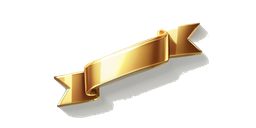
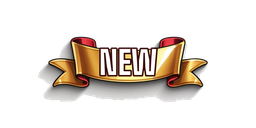
circle-heroes: 남은 UI 아이콘 백로그 8종 제작 (tab-castle 자동 반영, 나머지 7종은 코드 연결 대기)
tab-castle.png(모험 탭, 나침반 모티프)는 shell.ts가 파일명을 직접 참조해 즉시 반영됨.
ticket-normal/premium, icon-stone, star-transcend, icon-key, icon-photo, badge-new(NEW
텍스트를 이미지에 직접 합성) 7종은 코드가 이모지 리터럴을 쓰고 있어 이미지 배선은
별도 작업 필요 — ASSETS.md에 상태 기록.

Changed region(s): [[0.125, 0.1562, 0.8438, 0.9375]]

diff --git a/circle-heroes/ASSETS.md b/circle-heroes/ASSETS.md
@@ -112,6 +112,12 @@ assets/backgrounds/<장소/테마>.png           ← 슬롯9·10
   `mail-notice.png`/`mail-normal.png`(우편함 종류 아이콘), `shop-freebox.png`(일일 무료 상자),
   `shop-gems.png`(보석 패키지), `skill-attack.png`/`skill-defense.png`(영웅 상세 스킬 아이콘).
   화질·스타일 전부 기존 `elem-*.png`/`tab-*.png`와 잘 어울리는 플랫 SD 톤으로 확인 후 적용.
+- `tab-castle.png`(512×512) — **2026-07-30 정식본 교체 완료, 자동 반영됨**: `shell.ts`가
+  파일명을 직접 참조하고 있어(`icon: "tab-castle.png"`) PIL 임시 도형을 나침반 모티프 AI
+  일러스트로 덮어쓰기만 해도 즉시 반영. 추가 코드 작업 불필요.
+- `equip-{weapon,helmet,armor,shoes,necklace,ring}.png`(128×128, §장비 시스템 v2 6슬롯),
+  `shop-equipbox.png`(128×128) — **2026-07-30 제작·커밋 완료**(등급별 아이템 아이콘 5종은
+  장비탭 재구성으로 불필요해질 가능성이 있어 보류, 아래 표에 남겨둠).
 
 ### 재작업 필요 (파일은 있지만 모양이 용도에 안 맞음)
 - `chip-bg.png` — 지금 파일은 동그란 3D 렌즈/조약돌 모양인데, 실제 쓰이는 곳(하단 서브메뉴 칩)은
@@ -124,36 +130,37 @@ assets/backgrounds/<장소/테마>.png           ← 슬롯9·10
 ### 신규 필요 목록 — 지금 전부 이모지로 대체 중인 것들
 
 이번 라운드(2026-07-30)에 실제로 도착해 있던 9종(class-dealer/tanker/support, icon-lock,
-icon-power, mail-item/notice/normal, shop-freebox, shop-gems, skill-attack/defense)은 위
-"이미 반영 완료"로 옮겼다. 아래는 아직 파일이 없거나, 파일은 있어도 그대로 못 쓰는 것들.
+icon-power, mail-item/notice/normal, shop-freebox, shop-gems, skill-attack/defense)과
+tab-castle 정식본·장비 슬롯 7종은 위 "이미 반영 완료"로 옮겼다. 아래는 아직 파일이 없거나,
+파일은 도착했어도 코드가 이모지 리터럴이라 아직 안 바뀌는 것들.
 
 | 우선순위 | 파일명 | 크기 | 대체할 것 | 쓰이는 곳 |
 |---|---|---|---|---|
 | 중간 | `icon-check.png` | 128×128 | (현재 없음 — 미구현) | 원래 "편성중 카드 체크 배지"용으로 요청했지만, 지금 코드에는 그 자리에 체크 아이콘이 전혀 없다(편성/선택 표시는 카드 테두리 색만으로 함). 이 아이콘을 실제로 쓰려면 카드에 체크 배지를 추가하는 기능 작업이 먼저 필요 — 이미지만 넣는다고 반영되지 않음, 다음 라운드에 UI 작업과 같이 진행 권장 |
 | 높음 | `star-filled.png` | 64×64 | ★ | 영웅 상세·승급 화면 성급 표시 |
 | 높음 | `star-empty.png` | 64×64 | ☆ | 영웅 상세·승급 화면 성급 표시(빈 칸) — 성급/초월 통합 표시(§카드 표시방식 재정리)라 `star-filled`와 함께 별 5칸 전체를 이미지로 바꾸는 구조 변경이 필요, 텍스트(★☆) → 이미지 전환은 다음 라운드로 미룸 |
-| 중간 | `shop-equipbox.png` | 128×128 | 🎁 | 상점 — 장비 상자(§장비 시스템 v2 2026-07-29 신설). "일일 무료 상자"용 `shop-freebox.png`(보물상자 그림)와는 다른 아이템이라 그대로 재사용하지 않음 |
-| 중간 | `badge-new.png` | 256×128 | (텍스트 "NEW") | 소환 결과 신규 획득 배지 — **2026-07-30 확인 결과 이미지가 도착했지만 그대로 못 씀**: 받은 파일이 "NEW" 글자 없는 빈 금색 리본 그림이라, 지금 코드가 보여주는 실제 정보("NEW!" 텍스트)가 사라진다. 리본 위에 텍스트를 얹는 CSS 오버레이로 쓰거나, "NEW" 글자가 박힌 버전으로 재제작 필요 |
-| 낮음 | `icon-photo.png` | 128×128 | 🖼 | 영웅 카드 일러스트 열람 가능 힌트 배지 |
-| 낮음 | `icon-key.png` | 128×128 | 🔑 | 설정 화면 "코드 입력" 섹션 제목 |
-| 낮음 | `equip-weapon.png` | 128×128 | ⚔ | 장비 화면(§장비 시스템 v2 2026-07-29 신설, 6슬롯) — 무기 슬롯 아이콘(공격력) |
-| 낮음 | `equip-helmet.png` | 128×128 | 🪖 | 장비 화면 — 투구 슬롯 아이콘(체력) |
-| 낮음 | `equip-armor.png` | 128×128 | 🛡 | 장비 화면 — 갑옷 슬롯 아이콘(방어력) |
-| 낮음 | `equip-shoes.png` | 128×128 | 👟 | 장비 화면 — 신발 슬롯 아이콘(속도) |
-| 낮음 | `equip-necklace.png` | 128×128 | 📿 | 장비 화면 — 목걸이 슬롯 아이콘(치명타 확률) |
-| 낮음 | `equip-ring.png` | 128×128 | 💍 | 장비 화면 — 반지 슬롯 아이콘(치명타 피해) |
-| 낮음 | `equip-item-N/R/SR/SSR/UR.png` | 128×128 | (등급 텍스트만) | 인벤토리·장착 팝업의 장비 아이템 아이콘 5종(등급별 톤 차등, 슬롯 공통 사용 가능) — §2026-07-30 장비탭 재구성 후엔 카드에 슬롯 이모지(`equip-weapon.png` 등 위 6종과 동일 모티프)를 등급색 배경(`.hero-card` 공용 배경) 위에 얹는 방식으로 확정, 위 슬롯 아이콘 6종이 준비되면 그대로 대체되고 이 5종은 불필요해짐(취소 검토) |
-| 중간 | `tab-castle.png` | 512×512 (기존 `tab-*.png`와 동일 규격) | (PIL로 급조한 자리표시자 — 골드 링+네이비 배경+탑 실루엣) | 주성 탭 아이콘(§마이티 아레나 반영계획 B, 2026-07-29 신설). 지금 파일은 코드로 그린 임시 도형이라 `tab-hero.png`/`tab-battle.png`처럼 AI 일러스트 톤의 정식 배지로 교체 필요 |
-| 중간 | `ticket-normal.png` | 128×128 | 🎫 | 일반소환권 아이콘(§마이티 아레나 반영계획 4, 2026-07-30 신설) — 소환화면·상점 |
-| 중간 | `ticket-premium.png` | 128×128 | 🎟 | 고급소환권 아이콘 — 소환화면·상점 |
-| 중간 | `icon-stone.png` | 128×128 | 💠 | 강화석 아이콘(§장비 강화, 2026-07-30 재도입) — 상점·강화 모달 |
-| 낮음 | `star-transcend.png` | 64×64 | ✪(보라색) | 초월(§마이티 아레나 반영계획 5) 전용 별 아이콘 — 기존 금색 `star-filled.png`와 시각적으로 구분되는 보라색 계열로. 승급 화면 초월 단계 표시에 사용 |
+| 낮음 | `equip-item-N/R/SR/SSR/UR.png` | 128×128 | (등급 텍스트만) | 인벤토리·장착 팝업의 장비 아이템 아이콘 5종(등급별 톤 차등, 슬롯 공통 사용 가능) — §2026-07-30 장비탭 재구성 후엔 카드에 슬롯 이모지(`equip-weapon.png` 등 6종과 동일 모티프)를 등급색 배경 위에 얹는 방식으로 확정, 슬롯 아이콘 6종이 이미 반영됐으니 이 5종은 사실상 불필요(취소 검토 — 이미지팀에서 12종 다 만들었지만 이 5종만 커밋 보류함) |
+
+### 파일 도착 완료, 코드 연결 대기 (2026-07-30)
+
+아래 7종은 이미지 제작이 끝나 `assets/icons/`에 있지만, 지금 코드가 전부 이모지를 문자열
+리터럴로 직접 쓰고 있어서(`el("span","","💠")`, `` `🎫일반 ${n}` `` 등) 파일만 있다고 자동
+반영되지 않는다 — 다른 폴백 방식들처럼 "파일 있으면 이미지, 없으면 텍스트"로 바꾸는 코드 작업
+필요:
+- `ticket-normal.png`/`ticket-premium.png`(128×128) — 소환권 2종, 소환화면·상점의 🎫/🎟 자리
+- `icon-stone.png`(128×128) — 강화석, 상점·강화 모달의 💠 자리
+- `star-transcend.png`(64×64, 보라색) — 초월 단계 표시의 ✪ 자리 (기존 `star-filled.png`처럼
+  성급 표시가 이미지로 구조 변경되면 자연스럽게 같이 전환될 항목이라, 위 star-filled/empty
+  구조 변경 작업과 묶어서 처리하는 게 효율적일 수 있음)
+- `icon-key.png`(128×128) — 설정 화면 "코드 입력" 섹션 제목의 🔑 자리
+- `icon-photo.png`(128×128) — 카드 일러스트 열람 힌트 배지의 🖼 자리
+- `badge-new.png`(256×128) — 소환 결과 신규 획득 배지. **재제작으로 "NEW" 글자를 이미지에
+  직접 박아 넣었으니**(지난 라운드 반려 사유였던 "정보 손실" 문제 해결), 코드에서 텍스트
+  대신 이 이미지를 얹기만 하면 됨
 
 모두 기존 아이콘들(`elem-*.png`, `tab-*.png`)과 같은 폴더(`assets/icons/`)에 같은 파일명 규칙으로
 넣으면 된다. 그림 스타일은 `tab-battle.png`처럼 **선명한 색+굵은 외곽선의 플랫한 SD 아이콘**
-톤으로(글로시 3D 웹버튼 느낌 아님) 맞춰주면 기존 탭바/진영 아이콘과 잘 어울린다. 우선순위 "높음"만
-먼저 만들어도 체감이 크게 달라지고, 나머지는 순서 상관없이 하나씩 넣어도 된다(전부 이모지 폴백이라
-파일이 없는 동안은 지금처럼 그대로 보임 — 급하게 다 만들 필요 없음).
+톤으로(글로시 3D 웹버튼 느낌 아님) 맞춰주면 기존 탭바/진영 아이콘과 잘 어울린다.
 
 ## 사운드(BGM/SFX) 규격서 (2026-07-29 신규 백로그)
 
@@ -215,3 +222,4 @@ icon-power, mail-item/notice/normal, shop-freebox, shop-gems, skill-attack/defen
 | 2026-07-29 | **장비 6종으로 확장**(5종 → 6종) — 레퍼런스가 공통으로 쓰는 "장신구를 목걸이+반지 2종으로 분리"하는 관례를 뒤늦게 반영. `equip-accessory.png` 백로그를 `equip-necklace.png`(치명타 확률)/`equip-ring.png`(치명타 피해) 2종으로 교체 |
 | 2026-07-29 | **사운드(BGM/SFX) 신규 백로그 등록** — 코드 전수조사 결과 오디오가 전혀 없던 걸 확인해 "다음은 뭐할까" 논의에서 우선순위로 채택. 재생 인프라(`src/systems/audio.ts`)를 먼저 배선해서 이미지처럼 파일만 넣으면 바로 동작하게 해두고, BGM 1종+SFX 13종 규격표 등록(우선순위·트리거 위치·길이 명시) |
 | 2026-07-30 | 사운드 백로그(BGM 1+예비 2, SFX 13) 실파일 조달·반영 완료, **장비 슬롯 아이콘 7종**(`equip-{weapon,helmet,armor,shoes,necklace,ring}.png`, `shop-equipbox.png`) 제작·반영 완료. `equip-item-{N,R,SR,SSR,UR}.png`(등급별 아이템 아이콘) 5종은 같이 만들어뒀지만, 위 §116 "장비탭 인벤토리 재구성" 메모(슬롯 아이콘 6종 도착 시 불필요해짐·취소 검토)를 뒤늦게 발견해 **커밋 보류** — 여전히 필요하면 알려주면 바로 재생성. 상세는 `PROMPTS.md` 해당 날짜 기록 참고 |
+| 2026-07-30 | 남은 UI 아이콘 백로그 8종 제작 완료 — `tab-castle.png`(모험 탭, 나침반 모티프)는 코드가 파일명을 직접 참조해 **자동 반영**됨. `ticket-normal/premium`, `icon-stone`, `star-transcend`, `icon-key`, `icon-photo`, `badge-new`(이번엔 "NEW" 글자를 이미지에 직접 합성) 7종은 이미지는 도착했지만 코드가 이모지를 문자열 리터럴로 쓰고 있어 **이모지→이미지 교체 작업 대기 중**(위 "파일 도착 완료, 코드 연결 대기" 절 참고). `icon-check`/`star-filled`/`star-empty`는 더 큰 구조 변경이 필요해 이번엔 제외 |
